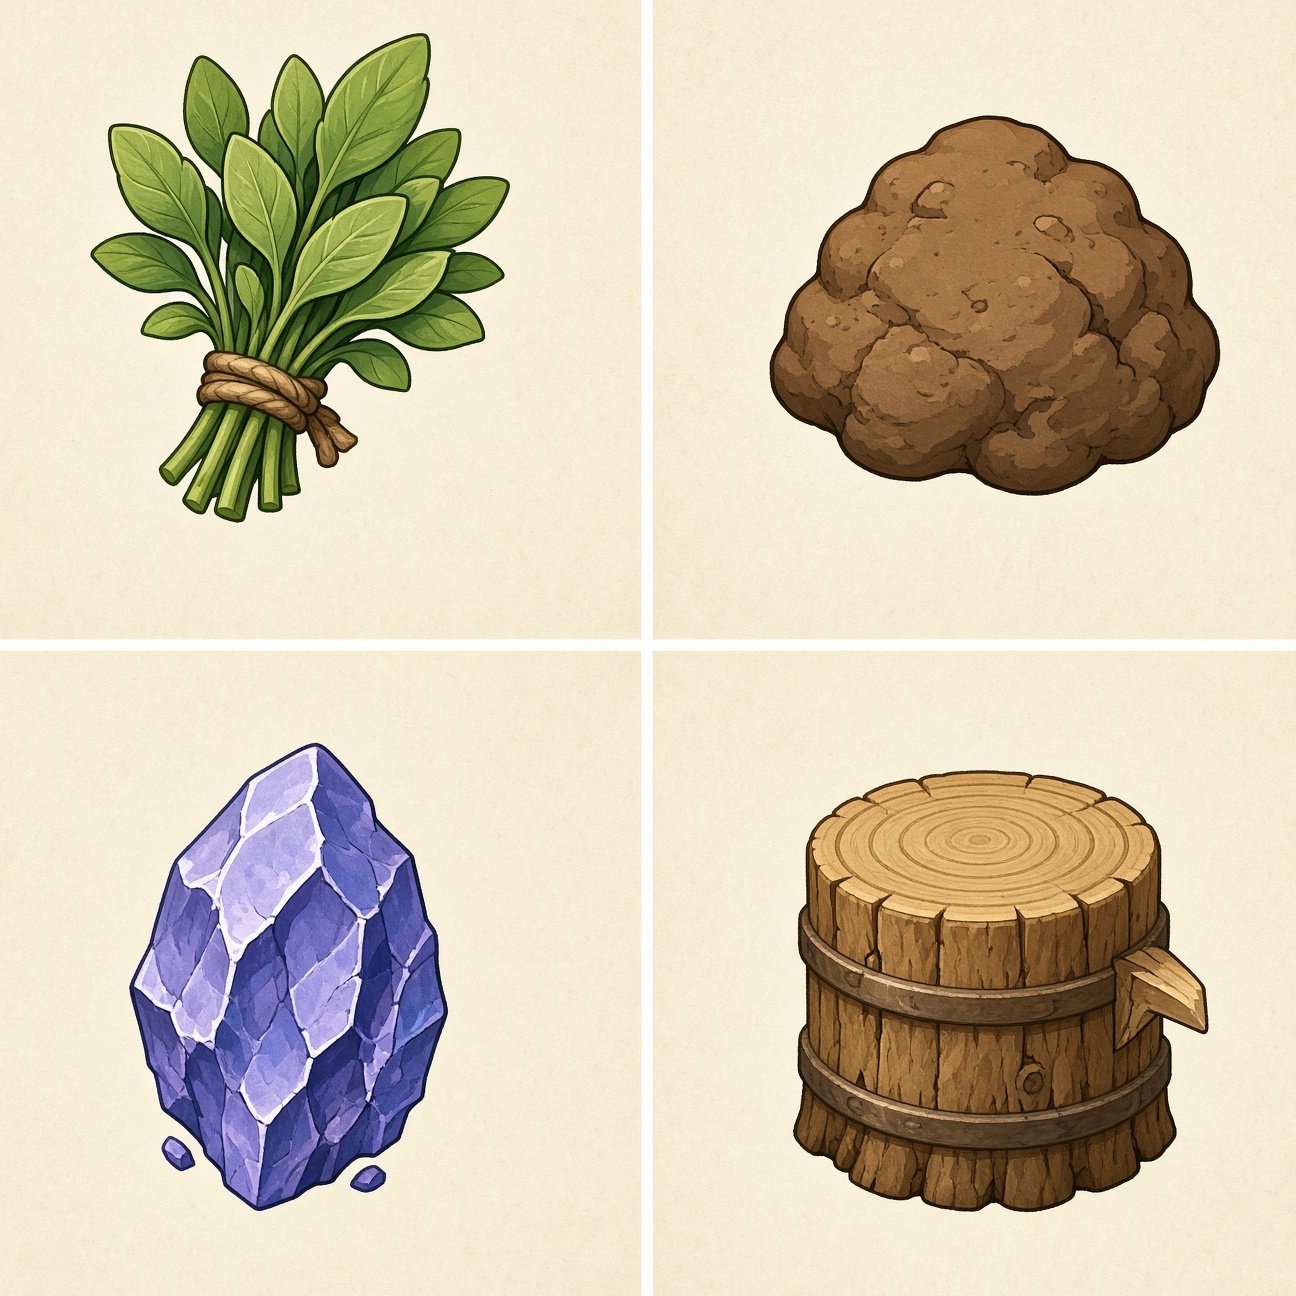
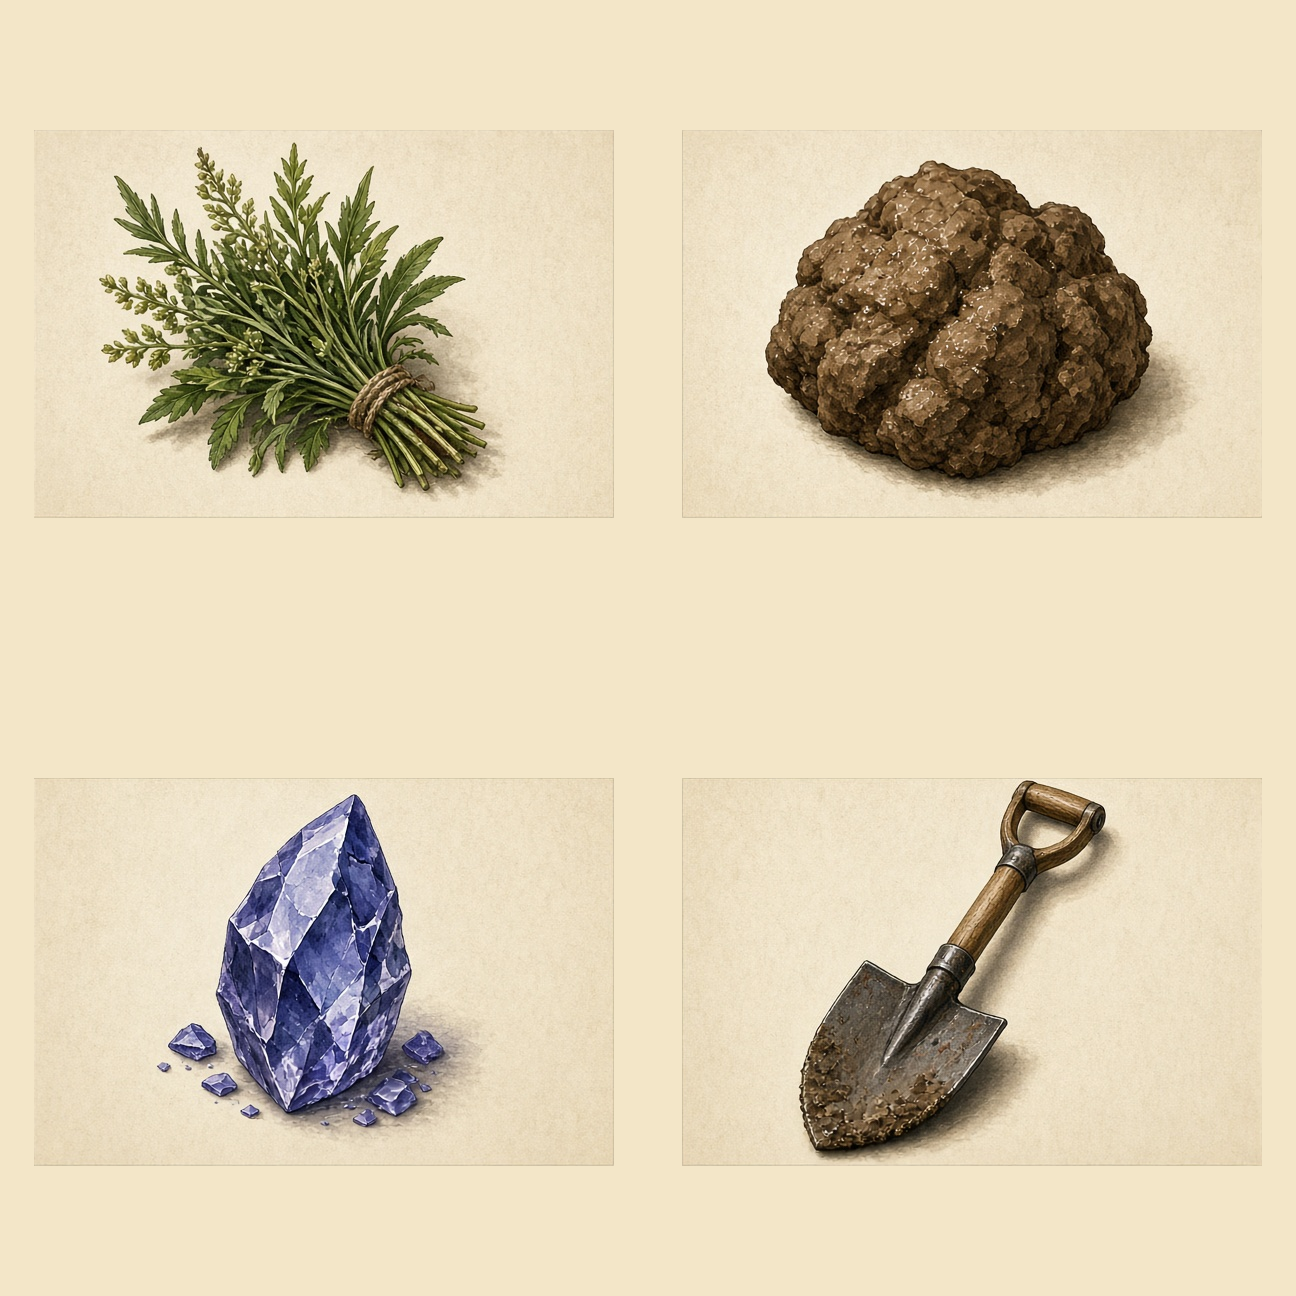
0.27.3 иконки: лопата и ремесло на листах, звери 40×40

diff --git a/src/components/game/Sprite.tsx b/src/components/game/Sprite.tsx
@@ -60,7 +60,7 @@ export const ITEM_ICO: Record<ItemId, number> = {
   food: ICO.food,
   fish: ICO.fish,
   axe: ICO.axe,
-  pick: ICO.axe,
+  pick: 0,
   herb: 0,
   clay: 1,
   sand: 1,
@@ -69,31 +69,31 @@ export const ITEM_ICO: Record<ItemId, number> = {
   bucket: 1,
   spear: 2,
   shovel: 3,
-  rod: ICO.fish,
-  bread: ICO.food,
-  plank: ICO.wood,
-  bar: ICO.ore,
-  tonic: 0,
-  smoked: ICO.fish,
-  coal: ICO.stone,
-  wheel: ICO.road,
-  lock: ICO.stake,
+  rod: 1,
+  bread: 8,
+  plank: 6,
+  bar: 7,
+  tonic: 11,
+  smoked: 9,
+  coal: 10,
+  wheel: 5,
+  lock: 4,
   club: 2,
-  knife: ICO.stake,
-  board_shield: ICO.wood,
-  bar_shield: ICO.wood,
+  knife: 3,
+  board_shield: 2,
+  bar_shield: 2,
   wadded: 0,
-  helm: ICO.ore,
-  brick: ICO.stone,
+  helm: 1,
+  brick: 3,
   grain: ICO.food,
   flour: ICO.food,
   steel_axe: ICO.axe,
-  steel_pick: ICO.axe,
+  steel_pick: 0,
   steel_shovel: 3,
-  hide: ICO.food,
-  leather: 1,
-  vest: 0,
-  hood: ICO.ore,
+  hide: 12,
+  leather: 13,
+  vest: 14,
+  hood: 15,
 };
 
 export function ExtraIco({ i, className, alt }: { i: number; className?: string; alt?: string }) {
@@ -111,47 +111,49 @@ export function GearPic({ i, className, alt }: { i: number; className?: string; 
   return <Sprite src="/game/gear.png" index={i} cols={2} rows={2} className={className} alt={alt} />;
 }
 
+export function GoodsIco({ i, className, alt }: { i: number; className?: string; alt?: string }) {
+  return <Sprite src="/game/goods.png" index={i} cols={4} rows={4} className={className} alt={alt} />;
+}
+
+export function ArmorIco({ i, className, alt }: { i: number; className?: string; alt?: string }) {
+  return <Sprite src="/game/armor.png" index={i} cols={2} rows={2} className={className} alt={alt} />;
+}
+
 export function LifePic({ i, className, alt }: { i: number; className?: string; alt?: string }) {
   return <Sprite src="/game/life.png" index={i} cols={3} rows={3} className={className} alt={alt} />;
 }
 
 export function ItemPic({ id, className }: { id: ItemId; className?: string }) {
-  if (id === "herb" || id === "clay" || id === "sand" || id === "crystal" || id === "tonic") {
-    return <ExtraIco i={id === "tonic" ? 0 : id === "crystal" ? 2 : ITEM_ICO[id]} className={className} alt="" />;
+  if (id === "herb" || id === "clay" || id === "sand" || id === "crystal" || id === "shovel" || id === "steel_shovel") {
+    return <ExtraIco i={ITEM_ICO[id]} className={className} alt="" />;
   }
   if (id === "rope" || id === "bucket" || id === "spear") {
     return <GearPic i={GEAR_ICO[id]} className={className} alt="" />;
   }
-  if (id === "shovel" || id === "steel_shovel") return <ExtraIco i={3} className={className} alt="" />;
-  if (id === "pick" || id === "steel_pick") return <Ico i={ICO.axe} className={className} alt="" />;
-  if (id === "rod") {
-    return (
-      <span
-        role="img"
-        aria-label=""
-        className={cn("inline-block shrink-0 bg-cover bg-center", className)}
-        style={{ backgroundImage: "url(/game/rod.png)" }}
-      />
-    );
+  if (
+    id === "pick" ||
+    id === "steel_pick" ||
+    id === "rod" ||
+    id === "club" ||
+    id === "knife" ||
+    id === "lock" ||
+    id === "wheel" ||
+    id === "plank" ||
+    id === "bar" ||
+    id === "bread" ||
+    id === "smoked" ||
+    id === "coal" ||
+    id === "tonic" ||
+    id === "hide" ||
+    id === "leather" ||
+    id === "vest" ||
+    id === "hood"
+  ) {
+    return <GoodsIco i={ITEM_ICO[id]} className={className} alt="" />;
   }
-  if (id === "coal") return <Ico i={ICO.stone} className={className} alt="" />;
-  if (id === "plank") return <Ico i={ICO.wood} className={className} alt="" />;
-  if (id === "bar") return <Ico i={ICO.ore} className={className} alt="" />;
-  if (id === "bread") return <Ico i={ICO.food} className={className} alt="" />;
-  if (id === "smoked") return <Ico i={ICO.fish} className={className} alt="" />;
-  if (id === "wheel") return <Ico i={ICO.road} className={className} alt="" />;
-  if (id === "lock") return <Ico i={ICO.stake} className={className} alt="" />;
-  if (id === "club") return <GearPic i={GEAR_ICO.spear} className={className} alt="" />;
-  if (id === "knife") return <Ico i={ICO.stake} className={className} alt="" />;
-  if (id === "board_shield" || id === "bar_shield") return <Ico i={ICO.wood} className={className} alt="" />;
-  if (id === "wadded") return <GearPic i={GEAR_ICO.rope} className={className} alt="" />;
-  if (id === "helm") return <Ico i={ICO.ore} className={className} alt="" />;
-  if (id === "brick") return <Ico i={ICO.stone} className={className} alt="" />;
-  if (id === "grain" || id === "flour") return <Ico i={ICO.food} className={className} alt="" />;
-  if (id === "hide") return <Ico i={ICO.food} className={className} alt="" />;
-  if (id === "leather") return <ExtraIco i={1} className={className} alt="" />;
-  if (id === "vest") return <GearPic i={GEAR_ICO.rope} className={className} alt="" />;
-  if (id === "hood") return <Ico i={ICO.ore} className={className} alt="" />;
+  if (id === "wadded" || id === "helm" || id === "board_shield" || id === "bar_shield" || id === "brick") {
+    return <ArmorIco i={ITEM_ICO[id]} className={className} alt="" />;
+  }
   return <Ico i={ITEM_ICO[id]} className={className} alt="" />;
 }
 

diff --git a/src/components/game/BoardCanvas.tsx b/src/components/game/BoardCanvas.tsx
@@ -1680,14 +1680,14 @@ function paintTile(ctx: CanvasRenderingContext2D, tile: Tile, world: World) {
     }
   }
   if (art && tile.herd && tile.herd.count > 0) {
-    drawAtlas(ctx, art.life, 3, 3, LIFE_INDEX[tile.herd.kind], x + 6, y + 8, 28, 28);
+    drawAtlas(ctx, art.life, 3, 3, LIFE_INDEX[tile.herd.kind], x + 2, y + 2, 40, 40);
   }
   if (tile.wagon) {
     paintWagon(ctx, x + 8, y + 16, 1);
   } else if (tile.cart) {
     paintWagon(ctx, x + 10, y + 18, 0.72);
   } else if (tile.horse && art) {
-    drawAtlas(ctx, art.life, 3, 3, LIFE_INDEX.horse, x + 8, y + 10, 26, 26);
+    drawAtlas(ctx, art.life, 3, 3, LIFE_INDEX.horse, x + 2, y + 2, 40, 40);
   }
   if (tile.chestLock && tile.building !== "none") {
     const px = x + TILE - 11;

diff --git a/src/game/constants.ts b/src/game/constants.ts
@@ -1,7 +1,7 @@
 import type { Biome, BuildingKind, Inventory, ItemId, Profession, Season, Transport, Weather } from "./types";
 
 /** Альфа. 0 всегда. Вторая цифра — новая механика. Третья — доработка. */
-export const GAME_VERSION = "0.27.2";
+export const GAME_VERSION = "0.27.3";
 
 /** Заливка паттерном (вода, луг, мох, камень, песок). false — плоские BIOME_FILL. */
 export const FILL_TEX = true;

diff --git a/docs/00-DOCS-INDEX.md b/docs/00-DOCS-INDEX.md
@@ -1,17 +1,17 @@
-# Документы Золотой Клетки · 2026-09-10
+# Документы Золотой Клетки · 2026-09-14
 
 Читать в таком порядке.
 
 1. **01-AGENT-HANDOFF.md** — как работать: версия, вход, бой через книгу, карта файлов.
 2. **СПРАВОЧНИК.md** — книга механик. Если кнопка иначе — верна кнопка. Канон 0.9.1 сдан.
 3. **05-WORLD-BOOK.md** — книга мира: общая карта, пятно, отпечаток.
-4. **ОЧЕРЕДЬ-0.9.md** — край 0.27.2. Шалаш и ход сданы.
+4. **ОЧЕРЕДЬ-0.9.md** — край 0.27.3. Иконки и звери 40×40 сданы.
 5. **public/game/TEXTURE-MAP.md** — какие jpg/png куда класть.
 
 Код: https://github.com/ggiftkin-bit/zolotaya-kletka  
-Сейв карманный: `zolotaya-kletka-v8` (черновик). Сид: `kletka-land-02`. Версия: `0.27.2`.
+Сейв карманный: `zolotaya-kletka-v8` (черновик). Сид: `kletka-land-02`. Версия: `0.27.3`.
 
 Вход: почта и пароль. Google / X на столе нет.
 
-Брифы края: канон (сдан) · вред-книга (сдан) · тик-роста (сдан) · ордер-прилавка (сдан) · услуга (сдан) · имя деревни 6a (сдан) · доска 6b (сдан) · склад (сдан) · кирпич (сдан) · зерно (сдан) · доска-двор (сдан 0.14.1) · срок услуги (сдан 0.14.2) · цифры удара (сдан 0.14.3) · доска без услуги на себе (сдан 0.15.0) · привези (сдан 0.15.1) · вывеска с доски (сдан 0.15.2) · тын без калитки (сдан 0.15.3) · склад тракта и контора (сдан 0.16.0) · тачка и лошадь на клетке (сдан 0.17.0) · доска — знак на дороге (сдан 0.18.0) · лист доски и обучение знака (сдан 0.18.1) · ход и дело без стола (сдан 0.18.2) · золото книги (сдан 0.19.0) · сумка книги (сдан 0.20.0) · хвост мешка (сдан 0.20.1) · сила и раны (сдан 0.21.0) · потолок сдач тракту (сдан 0.21.1) · тело книги (сдан 0.21.2) · гонка клетки (сдан 0.21.3) · копка (сдан 0.22.0) · кованый набор (сдан 0.23.0) · мельница и пилорама (сдан 0.24.0) · падение под крышей и чужой шалаш (сдан 0.24.1) · кожа и одежда (сдан 0.25.0) · настой, разбор и трут (сдан 0.25.1) · стада (сдан 0.26.0) · поляна (сдан 0.27.0) · ход и рынок (сдан 0.27.1) · шалаш и ход (сдан 0.27.2) · сход 6c–6d на паузе.
+Брифы края: канон (сдан) · вред-книга (сдан) · тик-роста (сдан) · ордер-прилавка (сдан) · услуга (сдан) · имя деревни 6a (сдан) · доска 6b (сдан) · склад (сдан) · кирпич (сдан) · зерно (сдан) · доска-двор (сдан 0.14.1) · срок услуги (сдан 0.14.2) · цифры удара (сдан 0.14.3) · доска без услуги на себе (сдан 0.15.0) · привези (сдан 0.15.1) · вывеска с доски (сдан 0.15.2) · тын без калитки (сдан 0.15.3) · склад тракта и контора (сдан 0.16.0) · тачка и лошадь на клетке (сдан 0.17.0) · доска — знак на дороге (сдан 0.18.0) · лист доски и обучение знака (сдан 0.18.1) · ход и дело без стола (сдан 0.18.2) · золото книги (сдан 0.19.0) · сумка книги (сдан 0.20.0) · хвост мешка (сдан 0.20.1) · сила и раны (сдан 0.21.0) · потолок сдач тракту (сдан 0.21.1) · тело книги (сдан 0.21.2) · гонка клетки (сдан 0.21.3) · копка (сдан 0.22.0) · кованый набор (сдан 0.23.0) · мельница и пилорама (сдан 0.24.0) · падение под крышей и чужой шалаш (сдан 0.24.1) · кожа и одежда (сдан 0.25.0) · настой, разбор и трут (сдан 0.25.1) · стада (сдан 0.26.0) · поляна (сдан 0.27.0) · ход и рынок (сдан 0.27.1) · шалаш и ход (сдан 0.27.2) · иконки (сдан 0.27.3) · сход 6c–6d на паузе.
 `BRIEF-BUILD-книга-мира.md` — история, срез сдан.

diff --git a/docs/01-AGENT-HANDOFF.md b/docs/01-AGENT-HANDOFF.md
@@ -1,4 +1,4 @@
-# Агенту · Золотая Клетка 0.27.2
+# Агенту · Золотая Клетка 0.27.3
 
 Живая канвас-игра. Репозиторий: https://github.com/ggiftkin-bit/zolotaya-kletka
 
@@ -6,7 +6,7 @@
 
 **Прямой бриф бьёт этот файл.** Один заход — одна тема. Не чинить реку «заодно» с боем.
 
-Версия: `0.x.y` — ноль всегда (альфа). `x` — новая механика. `y` — доработка того что есть. Сейчас **0.27.2**: шалаш свой без двора, старый путь не тянет, без рук. Ход-рынок 0.27.1. Поляна 0.27.0. Стада 0.26.0. Настой 0.25.1. Кожа 0.25.0. Падение под крышей не цикл, чужой шалаш не «ты» 0.24.1. Мельница 0.24.0. Кованый набор 0.23.0. Копка 0.22.0. Гонка клетки 0.21.3. Тело книги 0.21.2. Потолок сдач 0.21.1. Сила и раны 0.21.0. Хвост мешка 0.20.1. Сумка 0.20.0. Золото 0.19.0. Удар не пересобирать.
+Версия: `0.x.y` — ноль всегда (альфа). `x` — новая механика. `y` — доработка того что есть. Сейчас **0.27.3**: листы иконок extras/goods/armor/life, звери на клетке 40×40. Шалаш-ход 0.27.2. Ход-рынок 0.27.1. Поляна 0.27.0. Стада 0.26.0. Настой 0.25.1. Кожа 0.25.0. Падение под крышей не цикл, чужой шалаш не «ты» 0.24.1. Мельница 0.24.0. Кованый набор 0.23.0. Копка 0.22.0. Гонка клетки 0.21.3. Тело книги 0.21.2. Потолок сдач 0.21.1. Сила и раны 0.21.0. Хвост мешка 0.20.1. Сумка 0.20.0. Золото 0.19.0. Удар не пересобирать.
 
 ---
 
@@ -61,6 +61,7 @@
 | стада | `life.ts` — дикие шагают сутки книги; корова 30 суток; конь 36; волк лист встречи. `store.ts` не водит |
 | поляна | `meadow.ts` + `step.ts` — шаг Чебышёв 1 без пути; с путём — клетки пути; мир на `commons`; зал и 8 клеток рынка миграцией; аренда 8; два столба; заказ дороги. Лист рынка: прилавок и доска. `store.ts` клеит |
 | шалаш-ход | `book-sync.ts` в тело только живой `travel`; стоп / сразу / конец — `lastTravel` снять. `resolveBuild` / `writeWorldDeed` штамп `on` шалашу без двора. Hud: ускорить и бросить, без рук. `isYours` не трогать |
+| иконки | `Sprite.tsx` ItemPic: extras 2×2, goods 4×4, armor 2×2. `gear.png` — верёвка/ведро/копьё/капля. `LIFE_INDEX` не двигать. Стадо и лошадь на клетке 40×40. Загон/конюшня/колодец на всю клетку |
 
 Документы: этот файл → `docs/СПРАВОЧНИК.md` → `05-WORLD-BOOK.md` → `public/game/TEXTURE-MAP.md`.
 

diff --git a/docs/ОЧЕРЕДЬ-0.9.md b/docs/ОЧЕРЕДЬ-0.9.md
@@ -1,4 +1,4 @@
-# Очередь · 0.27.2
+# Очередь · 0.27.3
 
-Сданы шалаш и ход 0.27.2 (шалаш свой без двора, старый путь не тянет, без рук). Ход и рынок 0.27.1. Поляна 0.27.0. Стада 0.26.0. Настой книги, разбор и трут 0.25.1. Кожа и одежда 0.25.0. Падение под крышей и чужой шалаш 0.24.1. Мельница и пилорама 0.24.0. Кованый набор 0.23.0. Копка 0.22.0. Гонка клетки 0.21.3. Тело книги 0.21.2.
+Сданы иконки 0.27.3 (листы extras/goods/armor/life, лопата не пенёк, звери на клетке 40×40). Шалаш и ход 0.27.2 (шалаш свой без двора, старый путь не тянет, без рук). Ход и рынок 0.27.1. Поляна 0.27.0. Стада 0.26.0. Настой книги, разбор и трут 0.25.1. Кожа и одежда 0.25.0. Падение под крышей и чужой шалаш 0.24.1. Мельница и пилорама 0.24.0. Кованый набор 0.23.0. Копка 0.22.0. Гонка клетки 0.21.3. Тело книги 0.21.2.
 Парковка: выборы; живая оплата; стол админа; цепь нфт; касса государства; стакан мира; ноша / перегруз / двойной потолок.

diff --git a/docs/СПРАВОЧНИК.md b/docs/СПРАВОЧНИК.md
@@ -1,6 +1,6 @@
 # Золотая Клетка · полный справочник
 
-**Срез стола:** 10 сентября 2026. Версия **0.27.2**.  
+**Срез стола:** 14 сентября 2026. Версия **0.27.3**.  
 **Сид земли:** `kletka-land-02`. Карта 96×96.  
 Язык стола: клетка, фишка, поляна, двор, золото, книга мира.  
 Числа — как в живой сборке. Если в игре другое — верна игра.
@@ -657,4 +657,4 @@ Hp: хворост 8, дерево 20, камень 40. Огонь берёт х
 
 ---
 
-Конец справочника. Срез 2026-09-10, версия **0.27.2**. Если кнопка на столе делает иначе — верна кнопка, не память чата.
+Конец справочника. Срез 2026-09-14, версия **0.27.3**. Если кнопка на столе делает иначе — верна кнопка, не память чата.
